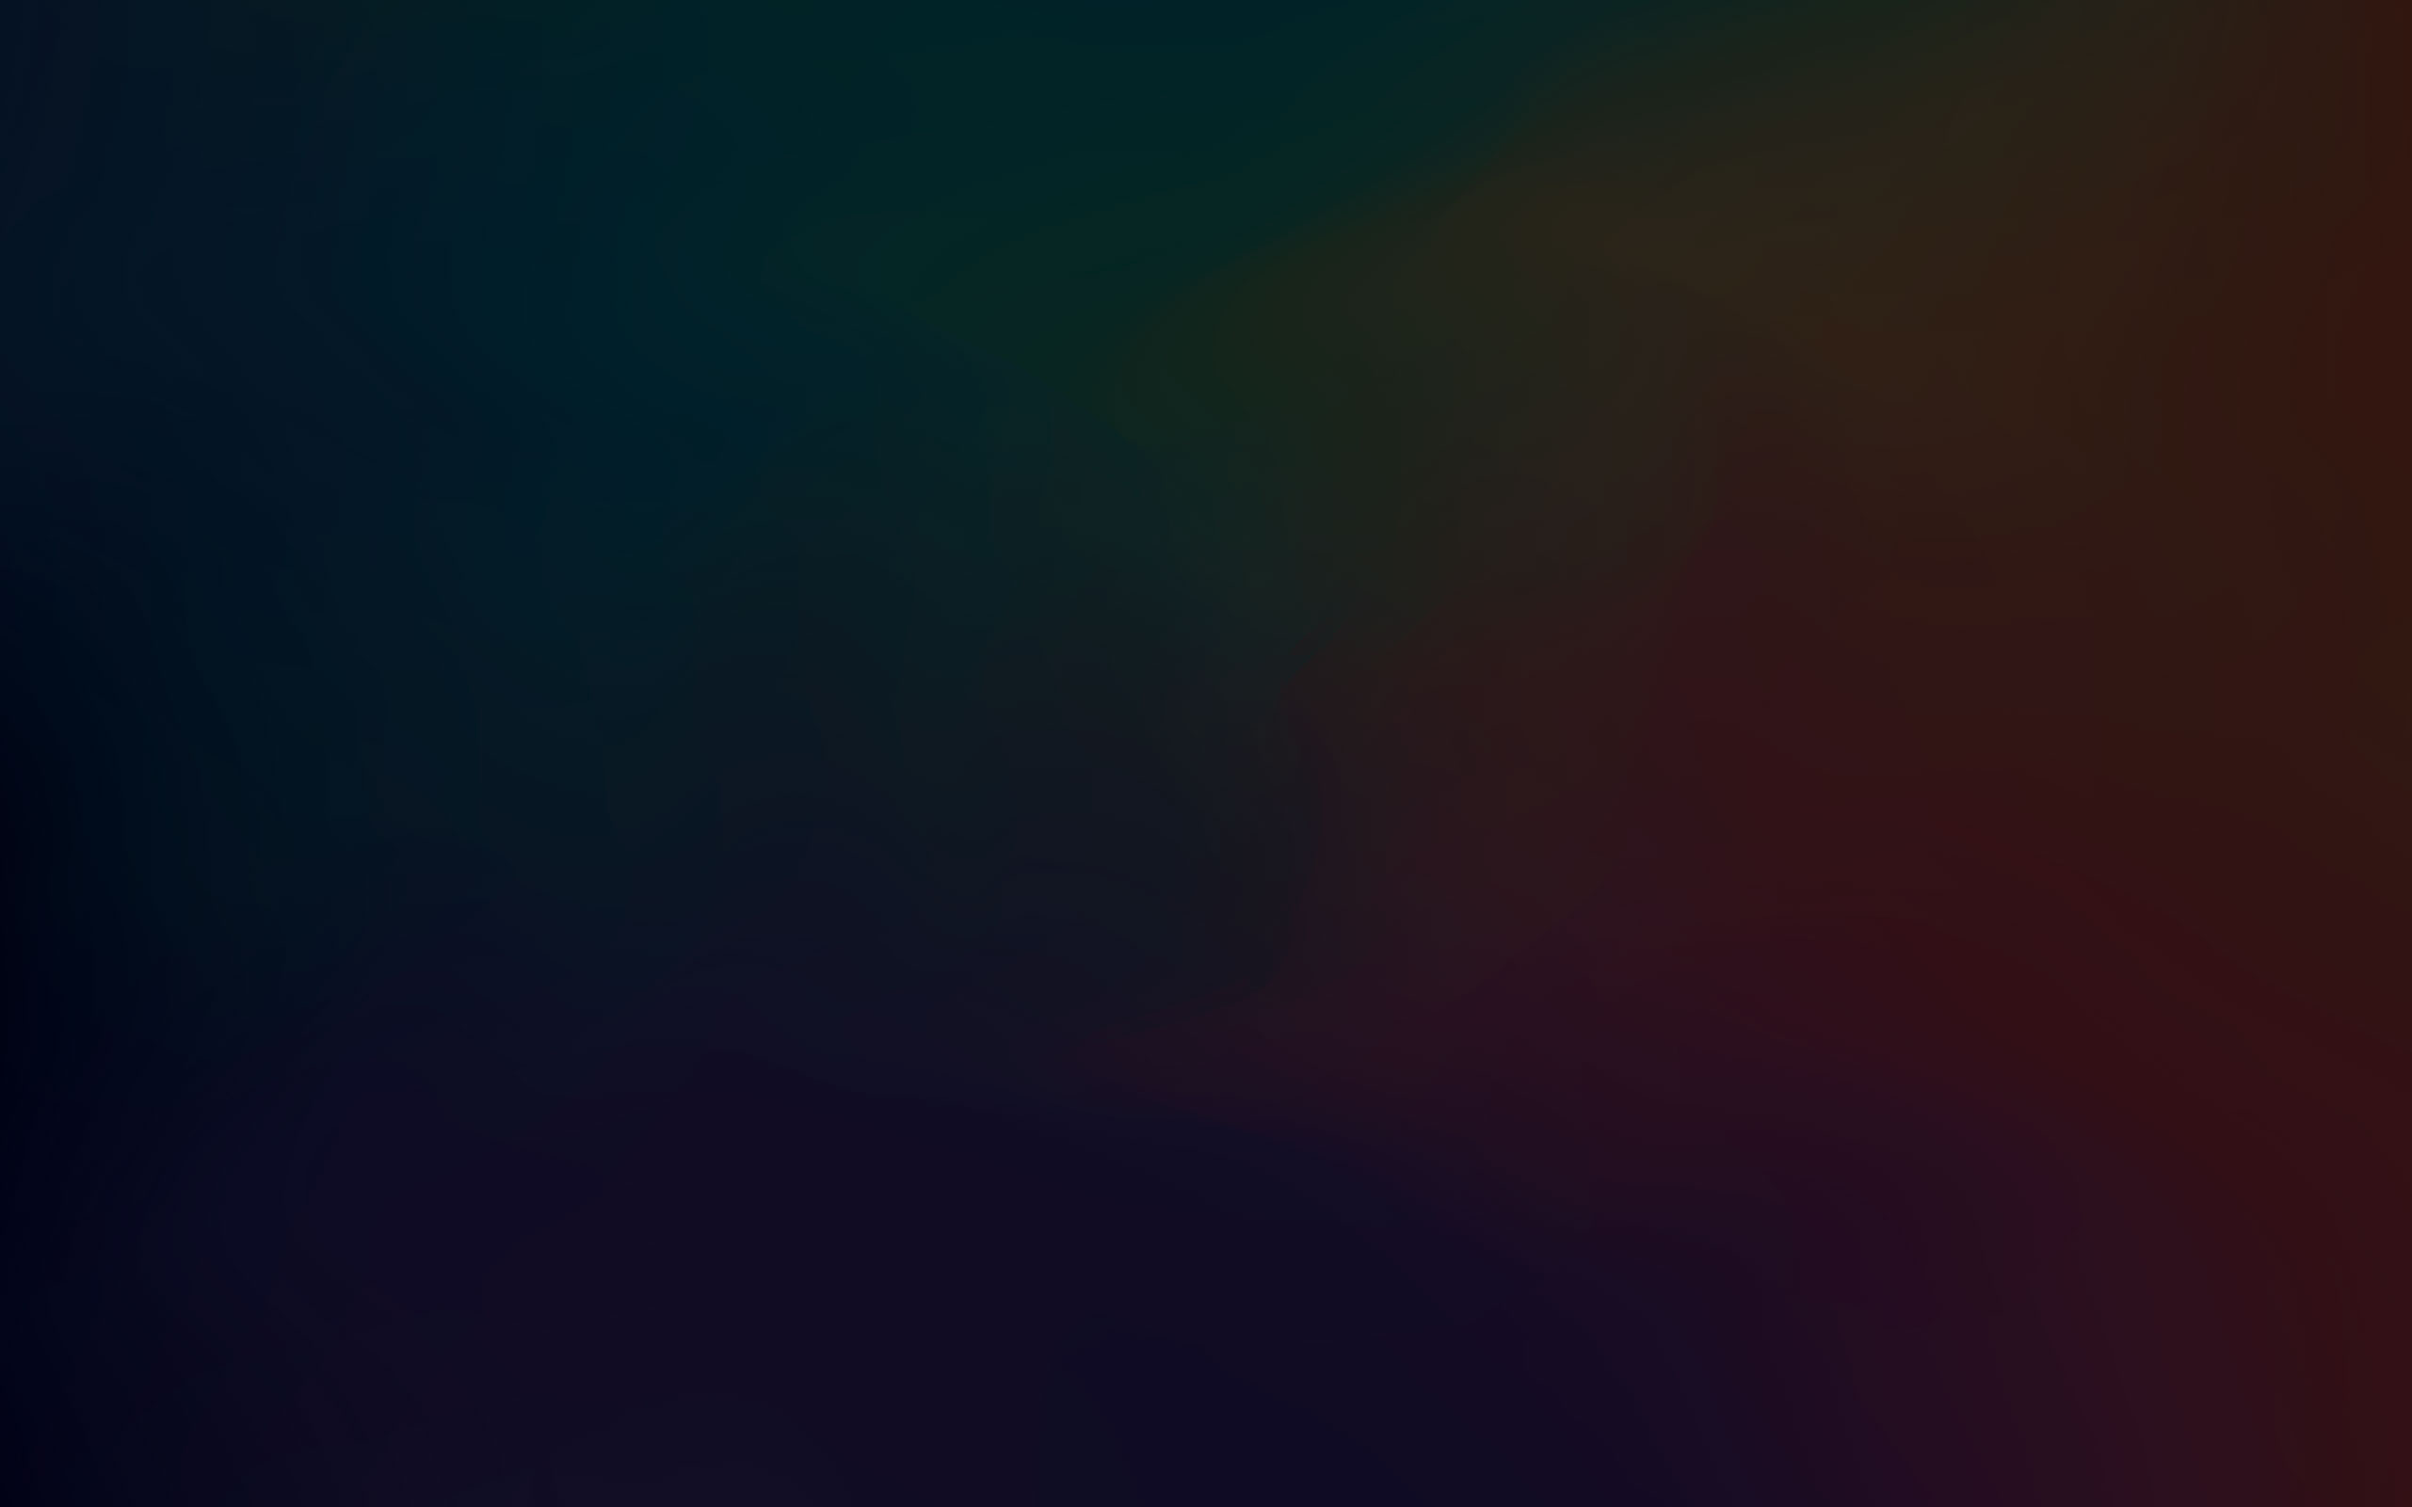
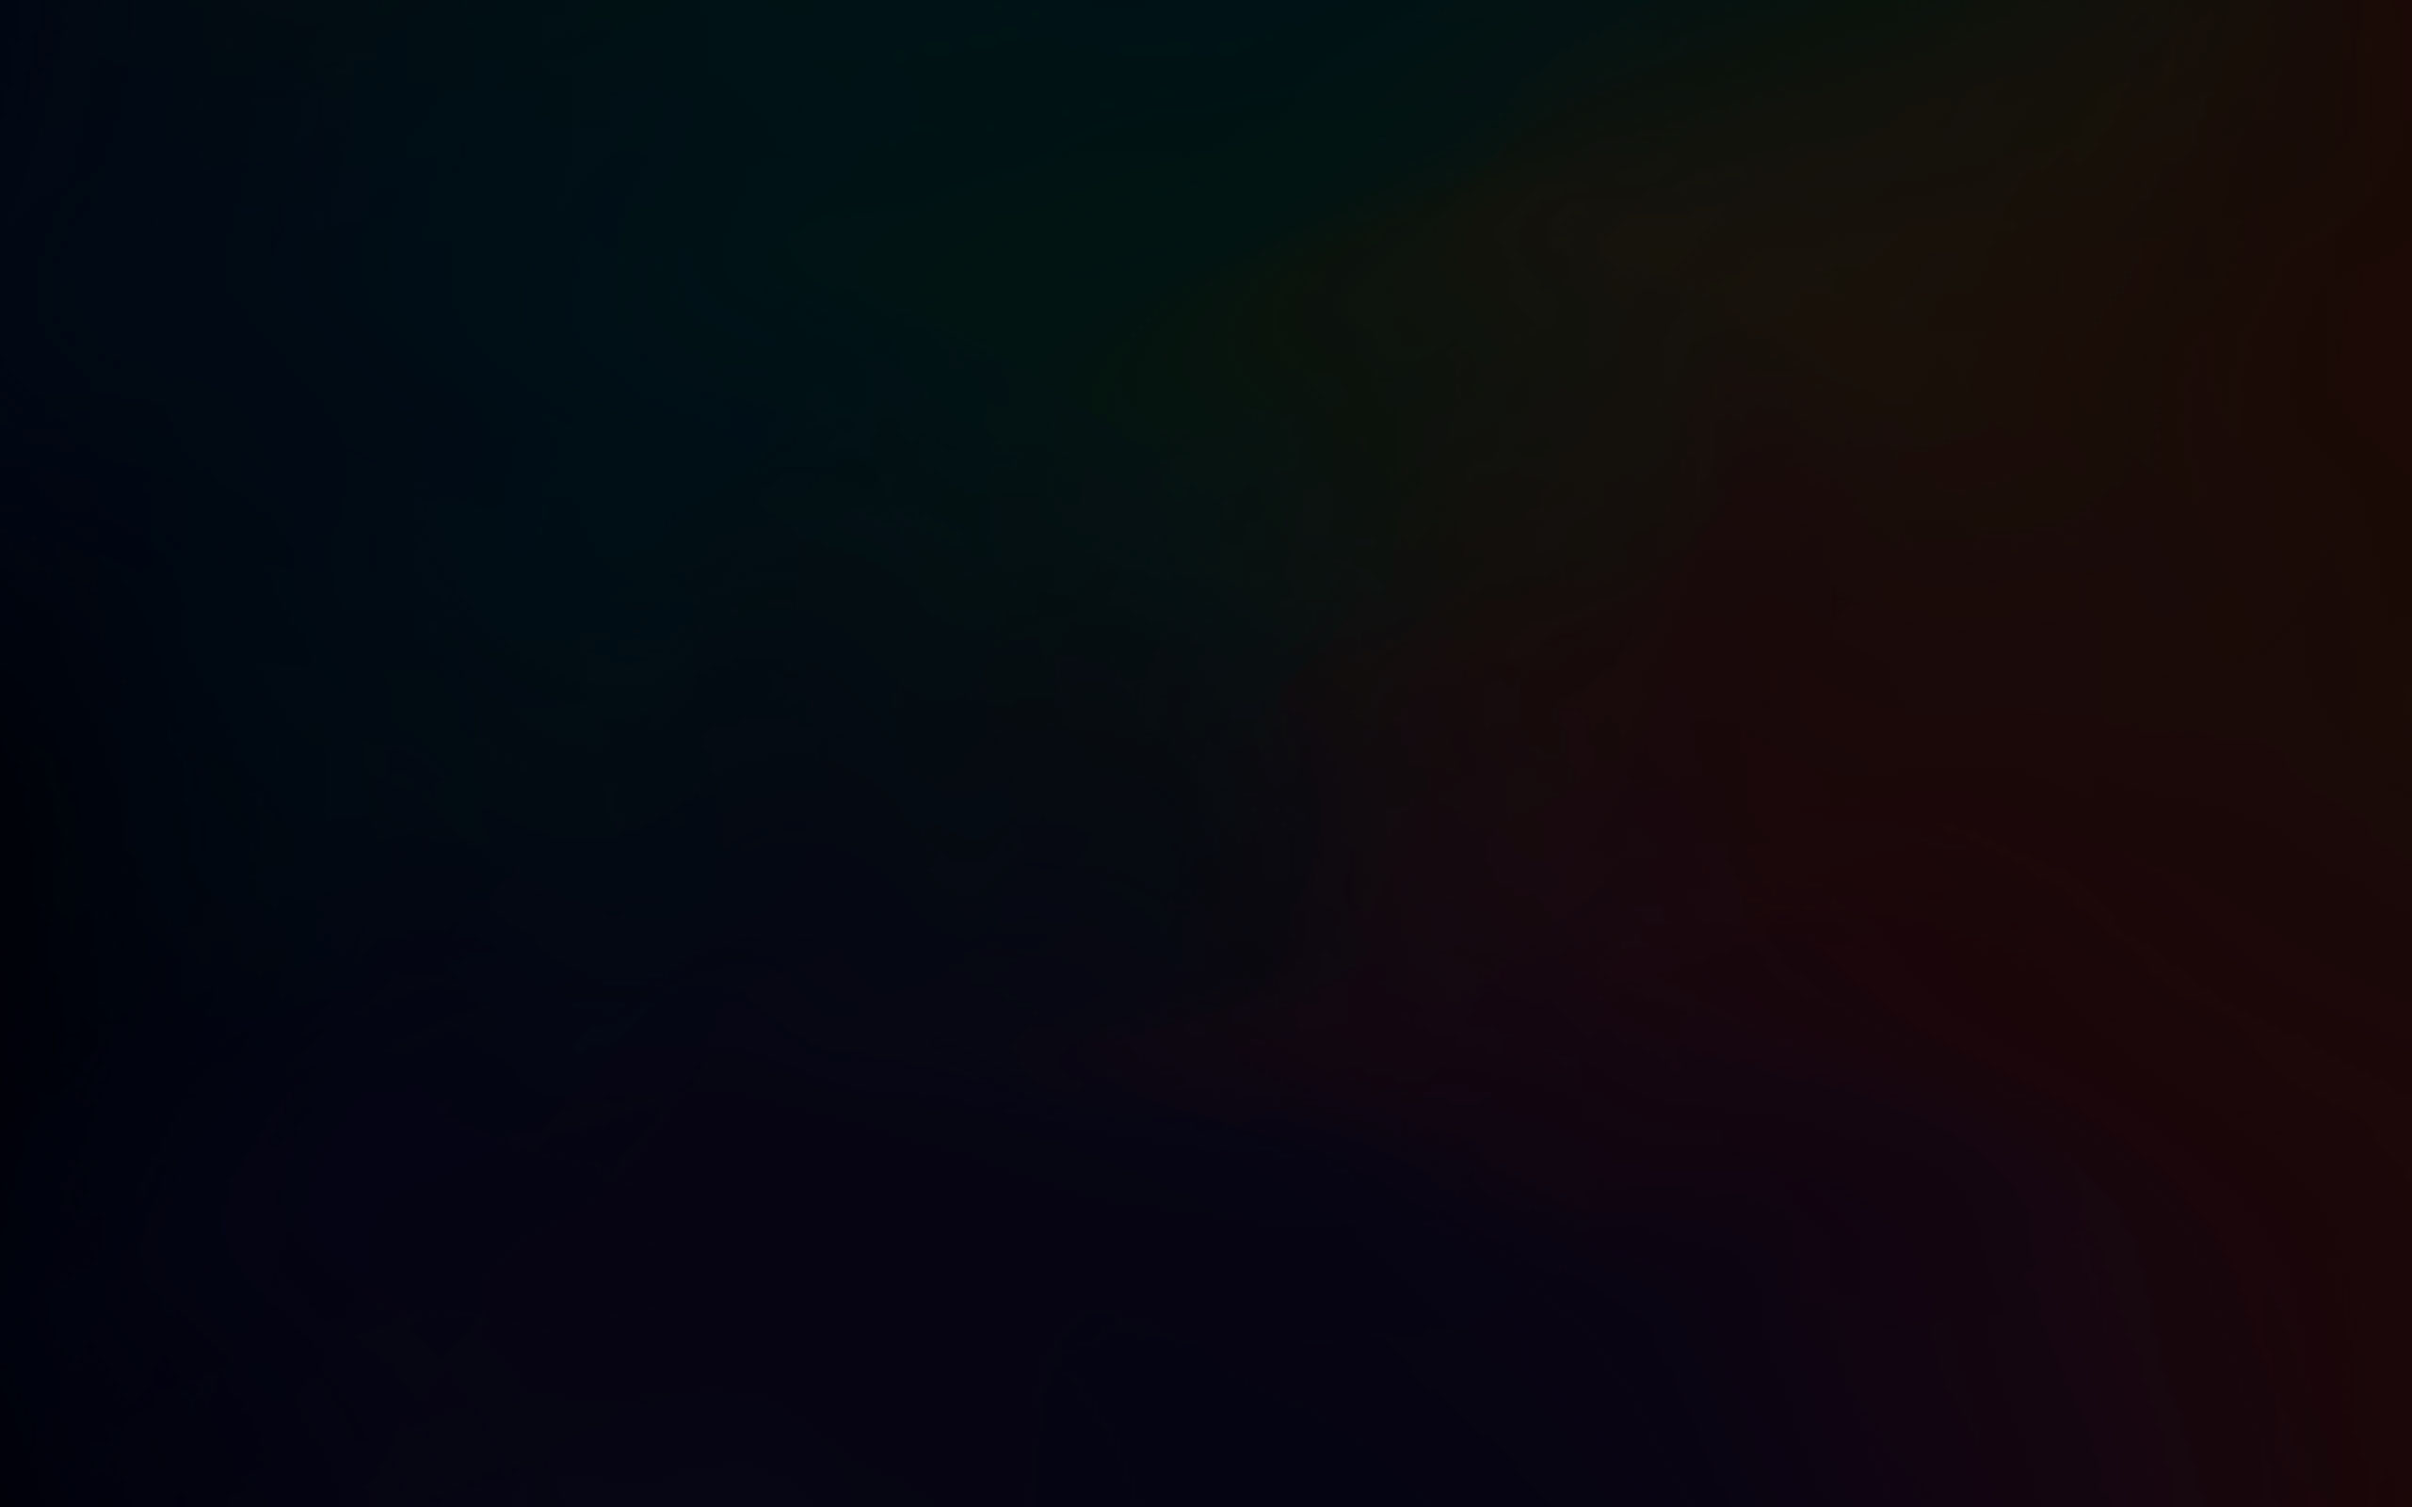
fixing click and bg

Changed region(s): [[0.9368, 0.0937, 1.0, 0.4997], [0.9992, 0.7808, 1.0, 0.812], [0.9992, 0.4997, 1.0, 0.5309]]

diff --git a/src/components/Popup.js b/src/components/Popup.js
@@ -21,7 +21,7 @@ class Popup extends Component {
       <Fragment>
         <div className="taCenter">
           <h3> are u listed?</h3>
-          <div className="Button" onClick={this.togglePopup.bind(this)}>
+          <div className="example_d" onClick={this.togglePopup.bind(this)}>
             Click For More Info
           </div>
         </div>
